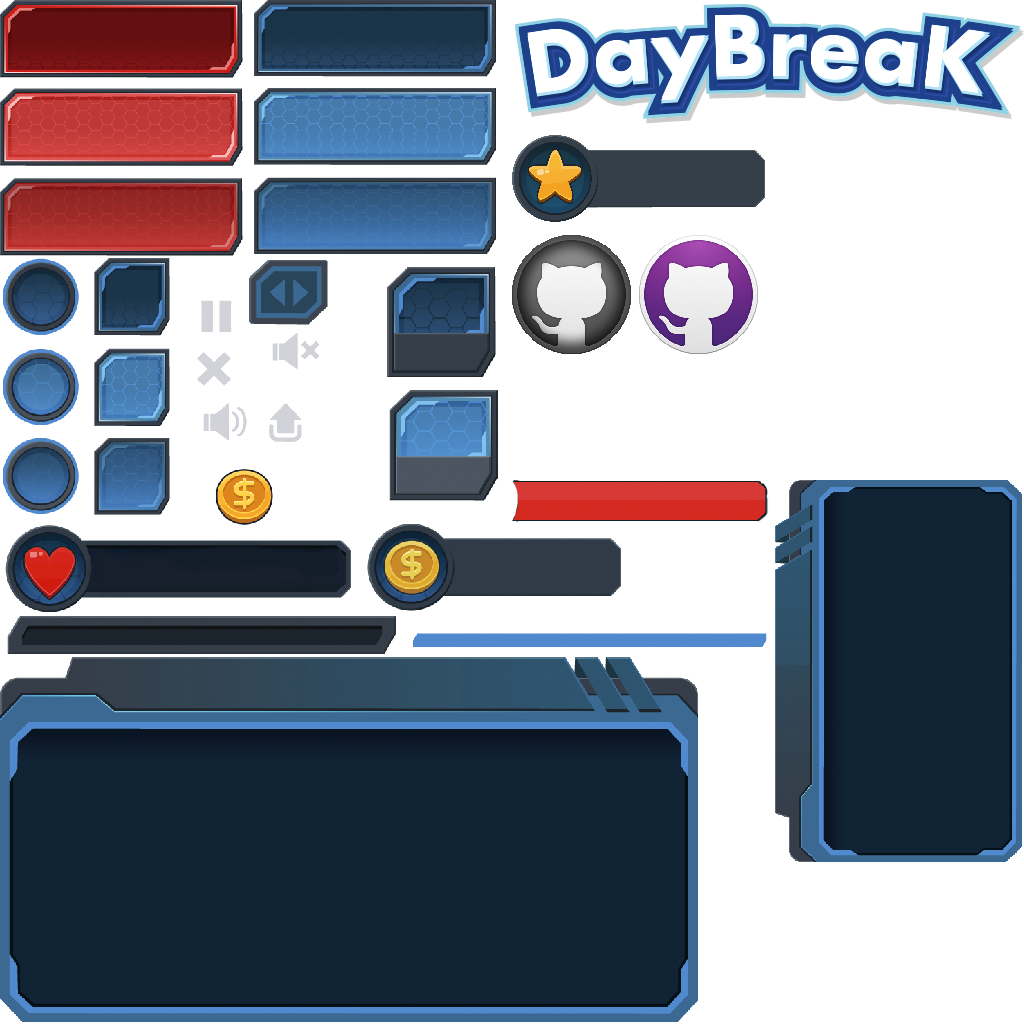
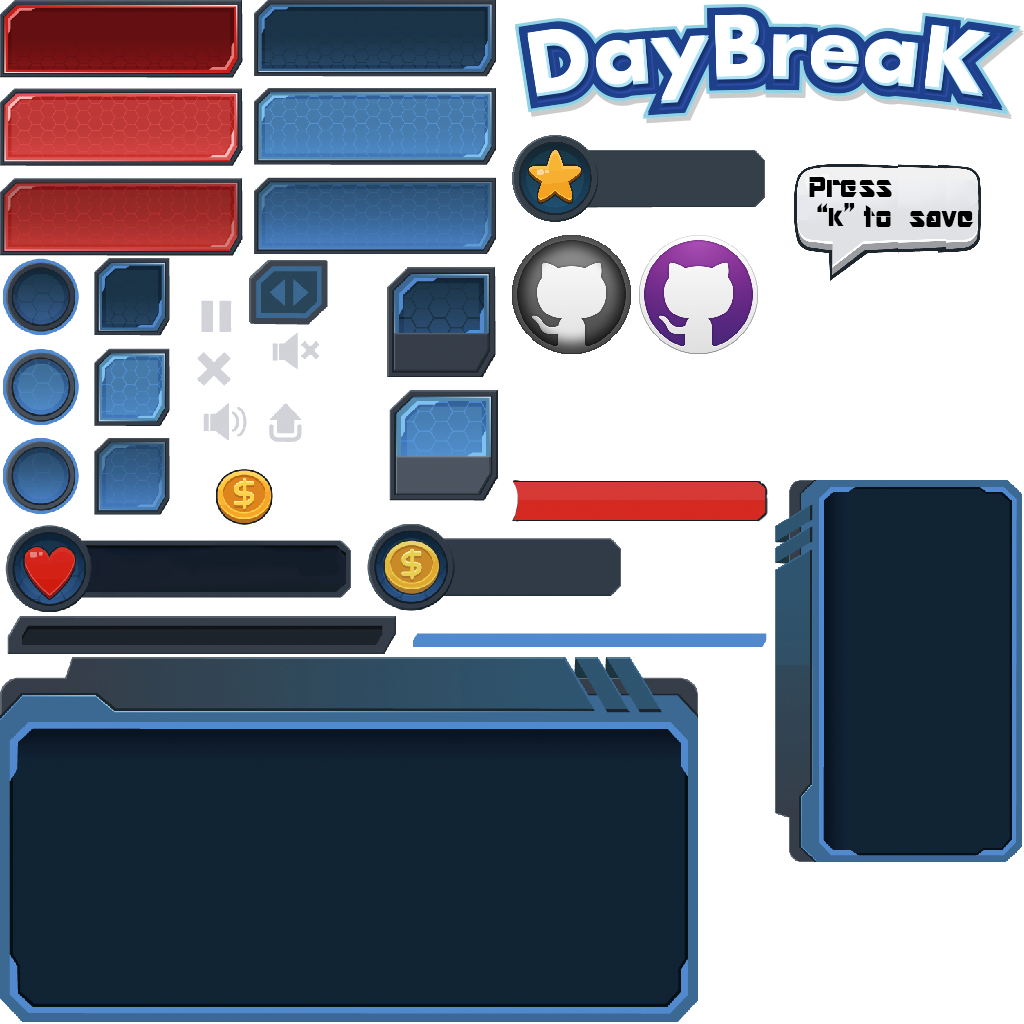
Added the Bubble to remember the player to save when they have 5 coins

Changed region(s): [[0.75, 0.1562, 0.9688, 0.2812]]

diff --git a/DayBreak_Project/Motor2D/j1Scene.cpp b/DayBreak_Project/Motor2D/j1Scene.cpp
@@ -160,6 +160,15 @@ bool j1Scene::PreUpdate()
 				}
 				else
 					UI_Item->data->CurrentRect = &UI_Item->data->UI_Rect_Pushed;
+			}	
+			if (App->entity_manager->coins >= 5) {
+				iconToSave->isActive = true;
+			}
+			else
+				iconToSave->isActive = false;
+			if (UI_Item->data->Logic == SAVE_REMEMBER) {			
+					UI_Item->data->Position.x = Player->player_position.x+10;
+					UI_Item->data->Position.y = Player->player_position.y-UI_Item->data->UI_Rect.h+10;
 			}
 			if (App->input->GetKey(SDL_SCANCODE_ESCAPE) == KEY_DOWN&&currentLevel!= MAIN_MENU) {
 				UI_Item->data->Active(pausePanel);
@@ -844,6 +853,9 @@ void j1Scene::CreateUI_Elements() {
 	License = App->gui->Add_UIElement(LABEL, iPoint(70, 240), NULL_RECT, NONE_LOGIC, NULL_RECT, NULL_RECT, 0.3, None, creditsPanel, "LICENSED UNDER MIT");
 	//IN GAME UI
 
+	iconToSave = App->gui->Add_UIElement(NON_INTERACTIVE, iPoint(0, 0), { 794, 164, 187,117 }, SAVE_REMEMBER , NULL_RECT, NULL_RECT, scale, None);
+	iconToSave->isActive = false;
+
 	pauseButton = App->gui->Add_UIElement(BUTTON, iPoint(780, 10), { 94,438,75,78 }, ACTIVEWIN, { 94,349,75,78 }, { 94,258,75,78 }, scale);
 	iconPauseButton = App->gui->Add_UIElement(NON_INTERACTIVE, iPoint(20, 20), { 201, 301, 31,31 }, NONE_LOGIC, NULL_RECT, NULL_RECT, scale, None, pauseButton);
 	pauseButton->isActive = false;
@@ -913,6 +925,7 @@ void j1Scene::CreateUI_Elements() {
 	UI_Elements_List.add(githubButonRoger);
 	UI_Elements_List.add(quitButton);
 	UI_Elements_List.add(continueButton);
+	UI_Elements_List.add(iconToSave);
 	UI_Elements_List.add(settingsButton);
 	UI_Elements_List.add(webPageButton);
 	UI_Elements_List.add(creditButton);

diff --git a/DayBreak_Project/Motor2D/j1Gui.cpp b/DayBreak_Project/Motor2D/j1Gui.cpp
@@ -134,8 +134,10 @@ UI_Element* j1Gui::Add_UIElement(UI_Type type, iPoint position, SDL_Rect Image_R
 }
 
 void UI_Element::Draw() {
-
-	App->render->Blit(texture, Position.x, Position.y, CurrentRect, false, angle, 0, 0, SDL_FLIP_NONE, scale);
+	if(Logic!=SAVE_REMEMBER)
+		App->render->Blit(texture, Position.x, Position.y, CurrentRect, false, angle, 0, 0, SDL_FLIP_NONE, scale);
+	else
+		App->render->Blit(texture, Position.x, Position.y, CurrentRect, 1.0f, angle, 0, 0, SDL_FLIP_NONE, scale);
 	if (App->gui->Debug == true)
 		App->render->DrawQuad({ Position.x,Position.y,UI_Rect.w,UI_Rect.h }, 255, 0, 0, 255, false, false, scale);
 

diff --git a/DayBreak_Project/Motor2D/j1Scene.h b/DayBreak_Project/Motor2D/j1Scene.h
@@ -175,6 +175,8 @@ public:
 	UI_Element* githubButonRoger = nullptr;
 	UI_Element* icongitHubButonRoger = nullptr;
 
+	UI_Element* iconToSave = nullptr;
+
 	UI_Element* labelCreatorsofGame = nullptr;
 	UI_Element* labelLuchoAndRoger = nullptr;
 	UI_Element* PathfindingProgramer = nullptr;

diff --git a/DayBreak_Project/Motor2D/j1Gui.h b/DayBreak_Project/Motor2D/j1Gui.h
@@ -30,6 +30,7 @@ enum Button_Logic {
 	RETURN_MAIN_MENU,
 	RESUME_GAME,
 	LIFE_ALERT,
+	SAVE_REMEMBER,
 	LOAD,
 	COINS,
 	TIME,
